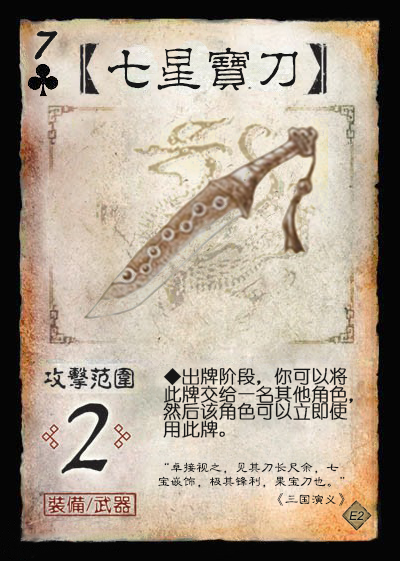
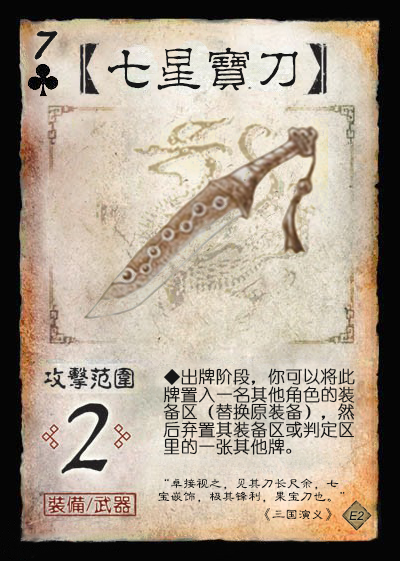
Fix in many exts, heroes in ext3.

Changed region(s): [[0.39, 0.6364, 0.9, 0.9394]]

diff --git a/SanGuoSha/SGS-RebirthProject/ext3.md b/SanGuoSha/SGS-RebirthProject/ext3.md
@@ -10,7 +10,8 @@
 
 ## 杂注
 
-1. 董卓军的势力特色：高体力上限（不一定高体力值），可能有负面效果
+1. 董卓军的势力特色：高体力上限（不一定高体力值），可能有负面效果；对体力上限做文章
+2. 诸侯联军的势力特色：进行手牌传递（包括支援）；本扩展中四个非SP的诸侯联军武将分别包含四种花色之一，以获得某种对称性，类似于原创之魂2017中的设计思路。
 
 ## 资料
 
@@ -96,9 +97,9 @@
 
    > 补充标准包中减少的拆装备手段。
 5. ![冲阵](./assets/images/cards/冲阵-v2.png) 【冲阵】：锦囊，普通  
-   出牌阶段，对你的下家使用。其选择一项：打出一张【闪】；或受到你造成的1点伤害，且若其下家不为你，则令其下家再次进行此选择。
+   出牌阶段，对你的下家使用。其选择一项：受到你造成的1点伤害，且若其下家不为你，则你可令其下家再次进行此选择；或打出一张【闪】。
 
-   > 说明：当有角色选择打出【闪】后，此结算终止，否则按照座位顺序不断向下传递直到转回自己为止。  
+   > 说明：当有角色选择打出【闪】后，此结算终止，否则按照座位顺序不断向下传递直到转回自己或使用者选择停止结算为止。  
    > 【冲阵】的结算可能影响多名角色，但目标角色只有下家一人。  
    > 所有【冲阵】均为援军牌，与位置相关的效果相配合，类似官方国战中的【火烧连营】。  
 6. ![古锭刀](./assets/images/cards/古锭刀.png) 【古锭刀】：装备，武器 攻击范围：2  
@@ -117,12 +118,8 @@
    **锁定技**，防止你受到的传导伤害；当【烂银铠】进入或离开你的装备区时，你摸一张牌。
 
    > 是否会导致刷牌？  
-   > 修改效果，以与支援机制配合？
 10. ![赤帻](./assets/images/cards/赤帻.png) 【赤帻】：装备，防具  
    当你攻击范围内的一名其他角色成为【杀】、【决斗】或【冲阵】的目标时，你可以弃置一张手牌，将其转移给你。
-
-   > 是否会导致刷牌？  
-   > 修改效果，以与支援机制配合？
 11. ![白鹤](./assets/images/cards/白鹤.png) 【白鹤】：装备，+1马
 
    > 引文：“凭空虚跃，曹家白鹤。” ——佚名  
@@ -139,17 +136,40 @@
    1. 【凶镬】：当一名角色受到伤害时，你可以减1点体力上限令伤害+1。伤害结算后，该角色回复1点体力。
    2. 【杀绝】：当一名角色被【决斗】或黑色的【杀】造成的伤害杀死后，你可以增加1点体力上限并摸一张牌。
 3. ![李肃](./assets/images/heroes/李肃.jpg) QUN021 李肃 男 群 3体力/5上限 称号：魔使
+   1. 【利熏】：当一名角色体力上限发生变化或脱离濒死状态后，你可以令其摸一张牌，然后你获得其一张牌。
+   2. 【馈珠】：出牌阶段限一次，你可以减1点体力上限，令一名角色回复1点体力或摸一张牌。
 4. ![牛辅](./assets/images/heroes/牛辅.jpg) QUN022 牛辅 男 群 4体力/6上限 称号：魔王骖驾
    1. 【掠命】：你可以将一张基本牌或1点体力上限当【巧取豪夺】使用。
 
    > “将1点体力上限当XX使用”等价于“减1点体力上限，然后视为使用一张XX”，是后者的简化描述。  
    > 类似地，“将1点体力值当XX使用”等价于“失去1点体力，然后视为使用一张XX”。  
 5. ![孔融](./assets/images/heroes/孔融.jpg) HAN011 孔融 男 汉 3体力 称号：凛然重义
-   1. 【名士】：当一名其他角色使用一张非转化的牌指定你为目标后，你可以将手牌摸至X张（X为牌名字数且至多为5）。
+   1. 【名士】：当一名其他角色使用一张非转化的牌指定你为目标后，你可以将手牌摸至X张（X为牌名字数且至多为4）。
    2. 【礼让】：出牌阶段，你可以将一张♥牌当援军牌使用；当你支援一张【桃】后，可以摸一张牌。
-6. ![韩馥](./assets/images/heroes/韩馥.jpg) HAN012 韩馥 男 汉 3体力
-7. ![鲍信](./assets/images/heroes/鲍信.jpg) HAN013 鲍信 男 汉 3体力
-8. ![臧洪](./assets/images/heroes/刘虞.jpg) HAN014 臧洪 男 汉 3体力
+
+   > 【名士】需要测试技能强度。  
+   > 本扩展四个汉势力角色的技能包含四种花色中的各一个（孔融为♥）。  
+6. ![韩馥](./assets/images/heroes/韩馥.jpg) HAN012 韩馥 男 汉 3体力 称号：度势恇然
+   1. 【供粮】：出牌阶段限一次，你可以将某一花色的所有手牌当【五谷丰登】使用；你使用【五谷丰登】可以少选择一个目标。
+   2. 【庸怯】：**锁定技**，你的手牌始终明置；当你不因此技能获得或失去手牌时，若这些牌中有♦花色的牌，当前回合角色摸一张牌（每回合限三张）。
+
+   > 【庸怯】说明：1) 若一次性获得或失去了多张手牌（例如摸牌阶段和弃牌阶段），则这些牌至少有一张♦花色即可触发摸牌；2) 韩馥因【庸怯】获得的牌无法触发【庸怯】。  
+   > 【庸怯】与讨董联盟时期的袁绍可以相互配合（但受益者为袁绍）；被主版本袁绍克制（响应【万箭齐发】的【闪】多为♦花色），契合人物关系。  
+   > 【供粮】反映了诸侯讨董过程中，韩馥留守邺城供给军粮的事迹，也与【庸怯】配合，消耗多余♦牌，并且获得想要的牌。  
+   > 本扩展四个汉势力角色的技能包含四种花色中的各一个（韩馥为♦）。  
+   > TODO：测试武将强度。
+7. ![鲍信](./assets/images/heroes/鲍信.jpg) HAN013 鲍信 男 汉 4体力 称号：济北相
+   1. 【竭援】：（TODO：与曹操配合，且带有♠）
+
+   > 本扩展四个汉势力角色的技能包含四种花色中的各一个（鲍信为♠）。  
+8. ![臧洪](./assets/images/heroes/刘虞.jpg) HAN014 臧洪 男 汉 3体力 称号：首举义旗
+   1. 【倡义】：出牌阶段，你可以将一张♣牌当【勠力同心】使用；当一名角色受到属性伤害时，你可以将一张牌交给该角色，将此伤害变为等量的普通伤害。
+   2. 【陈词】：出牌阶段限一次，你可以令你和所有横置的其他角色以你指定的顺序各展示一张手牌。若这些牌的花色相同，则每名展示牌的角色各摸一张牌；否则弃置所有展示的牌。
+
+   > 表现臧洪首倡讨董联军时期的事迹，【陈词】对应臧洪发表盟誓演讲的历史事件（《三国志》和《后汉书》均全文收录了演讲词）。  
+   > 在【陈词】展示手牌的过程中，符合条件但没有手牌的角色被跳过，不参与展示牌和后续结算（若臧洪本人没有手牌，也会被跳过）。  
+   > 【陈词】可以令友方角色摸牌，也可以令敌方角色弃牌，并且可以通过控制展示牌的顺序灵活使用。  
+   > 本扩展四个汉势力角色的技能包含四种花色中的各一个（臧洪为♣）。  
 
 ----
 
@@ -159,7 +179,8 @@
 2. ![SP孙坚](./assets/images/heroes/SP孙坚.jpg) SP-WU003 SP孙坚 男 汉 4体力 称号：义军先锋
    1. 【破军】：当你于出牌阶段内使用【杀】指定一个目标后，你可以将其至多X张牌扣置于该角色的武将牌旁（X为其体力值）。若如此做，当前回合结束后，该角色获得这些牌。
 
-   > 将官方徐盛的技能给了SP孙坚，与【古锭刀】契合。
+   > 将官方徐盛的技能给了SP孙坚，与【古锭刀】契合。  
+   > 孙坚的特性（菜刀）与联军的其他武将（传递手牌）格格不入，体现出与其他诸侯逡巡不进的状态相比，孙坚独自积极讨伐董卓的事迹。  
 3. ![SP诸葛亮](./assets/images/heroes/SP诸葛亮.jpg) SP-SHU005 诸葛亮 男 蜀 3体力 称号：迟暮的丞相
    1. 【观星】：准备阶段，你可以观看牌堆顶的X张牌（X为全场角色数且至多为7），然后将其中任意数量的牌置于牌堆顶，将其余的牌置于牌堆底或弃牌堆。
    2. 【空城】：**锁定技**，若你没有手牌，则你不能被选择为【杀】、【决斗】、【火攻】或支援的目标。
@@ -168,6 +189,9 @@
 
 ----
 
-1. ![神吕布](./assets/images/heroes/神吕布.jpg) LE003 吕布 男 神 6体力 称号：最强神话  
+1. ![神吕布](./assets/images/heroes/神吕布.jpg) LE003 吕布 男 神 5体力/8上限 称号：最强神话  
    1. 【无前】：出牌阶段，你可以将两张相同花色的牌当【决斗】、【冲阵】或【摧锋夺锐】使用。
    2. 【无谋】：**锁定技**，当你使用一张除【决斗】、【冲阵】和【摧锋夺锐】以外的锦囊牌时，你失去1点体力或减1点体力上限。
+   3. 【神愤】：TODO
+
+   > TODO：添加【神愤】技能，为神吕布添加神性。

diff --git a/SanGuoSha/SGS-RebirthProject/ext2.md b/SanGuoSha/SGS-RebirthProject/ext2.md
@@ -66,7 +66,7 @@
    > 引文：“于是尽徙洛阳人数百万口于长安，步骑驱蹙，更相蹈藉，饥饿寇掠，积尸盈路。” ——《后汉书·董卓传》  
    > 每局游戏中【迁都】至多被使用一次（包括所有转化和非转化的），可能需要一个标记来记录【迁都】是否被使用过。
 2. ![鸩毒](./assets/images/cards/鸩毒.png) 【鸩毒】：锦囊，普通  
-   当一名角色使用【桃】/【酒】时，对其使用。该角色选择一项：取消此【桃】/【酒】的效果；或失去1点体力。
+   当一名角色使用【桃】/【酒】时，对其使用。取消此【桃】/【酒】的效果；若没有角色处于濒死状态，该角色可改为失去1点体力。
 3. ![笑里藏刀](./assets/images/cards/笑里藏刀.png) 【笑里藏刀】：锦囊，普通  
    你或目标角色的出牌阶段开始时，对一名距离为1的其他角色使用。该角色摸一张牌，然后你对其造成1点伤害。
 
@@ -76,9 +76,10 @@
 
    > 模拟掷出手戟伤人的效果。  
 5. ![七星宝刀](./assets/images/cards/七星宝刀.png) 【七星宝刀】：装备，武器 攻击范围：2  
-   出牌阶段，你可以将此牌交给一名其他角色，然后该角色可以立即使用此牌。
+   出牌阶段，你可以将此牌置入一名其他角色的装备区（替换原装备），然后弃置其装备区或判定区里的一张其他牌。
 
    > 引文：“卓接视之，见其刀长尺余，七宝嵌饰，极其锋利，果宝刀也。” ——《三国演义》  
+   > 若其装备区和判定区中没有其他牌，则无事发生。  
 6. ![百花裙](./assets/images/cards/百花裙.png) 【百花裙】：装备，防具  
    当你成为一张同性其他角色使用的♣牌或异性角色使用的黑色牌的目标时，你可以摸一张牌。
 7. ![万岁坞](./assets/images/cards/万岁坞.png) 【万岁坞】：装备，防具  
@@ -106,12 +107,11 @@
 
    > 未作改动。
 2. ![李儒](./assets/images/heroes/李儒.jpg) QUN016 李儒 男 群 3体力 称号：魔仕  
-   1. 【鸩弑】：你可以将一张♣牌当【鸩毒】使用；你使用的【鸩毒】效果改为“你选择一项：令此【桃】/【酒】无效；或对该角色造成1点伤害”。
-   2. 【灭计】：**锁定技**，体力值比你多的角色使用的锦囊牌对你无效。
+   1. 【鸩弑】：你可以将一张♣牌当【鸩毒】使用。
+   2. 【灭计】：**锁定技**，体力值比你多的角色使用的普通锦囊牌对你无效。
    3. 【焚城】：**限定技**，出牌阶段，你可以令所有其他角色依次选择一项：弃置两张牌；或受到你造成的1点火焰伤害。此结算完成后，你可视为使用一张【迁都】。
 
    > 若本局游戏中已使用过【迁都】，则李儒不能视为使用【迁都】。  
-   > TODO：目前这个李儒非常克制董卓，如何改进？  
 3. ![何进](./assets/images/heroes/何进.jpg) QUN017 何进 男 群 4体力 称号：色厉内荏  
    1. 【谋诛】：出牌阶段限一次，你可令一名其他角色交给你一张手牌，然后若其手牌比你少，则其选择一项：视为对你使用一张【杀】；或视为对你使用一张【决斗】。
    2. 【延祸】：你死亡时，你可以依次弃置任意名角色的共计至多X张牌（X为存活角色数且至多为5）。

diff --git a/SanGuoSha/SGS-RebirthProject/warehouse.md b/SanGuoSha/SGS-RebirthProject/warehouse.md
@@ -277,6 +277,12 @@
 27. 某某 男 群 4体力 称号：某某某某
     1. 【四象】：游戏开始时，你将四种花色的标记分别与你的1~4体力值相对应，与你当前体力值对应的花色标记称为“某”。其他角色使用的与“某”花色相同的牌对你无效，你使用的与“某”花色相同的基本牌或普通锦囊牌可以指定一个额外目标。
     2. 【幻化】：结束阶段，你可以交换两个花色标记的位置。
+28. 臧洪 男 群 3体力 称号：力屈志扬
+    1. 【某某】：（TODO：体现向袁绍求援，并且尝试体现出若对方拒绝则结仇，与二技能联动）
+    2. 【某某】：（TODO：体现誓死守城）
+
+    > 表现臧洪向袁绍求援和坚守城池时期的事迹。  
+    > 称号来源：“洪怀偏节，力屈志扬。” ——《后汉书·虞傅盖臧列传》  
 
 ## 卡牌仓库
 
